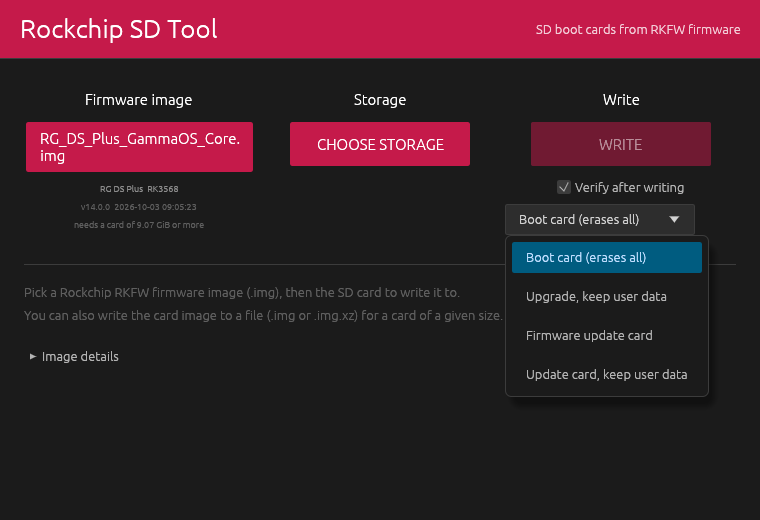
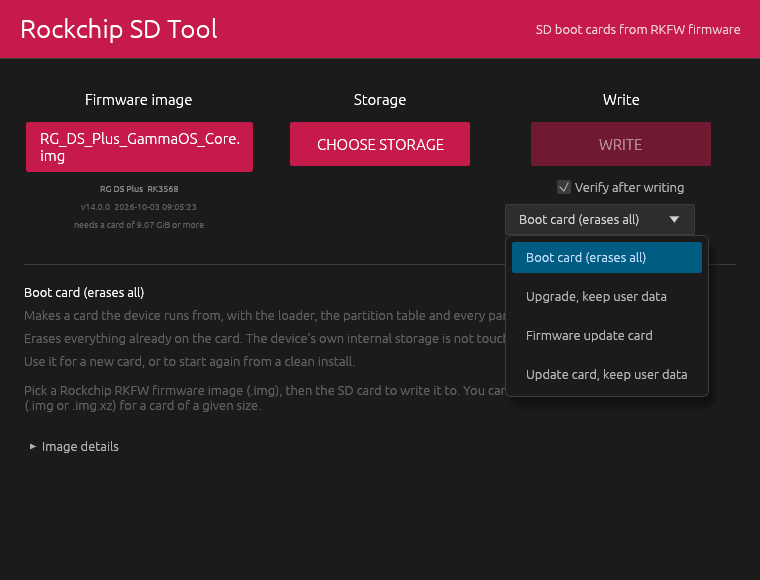
Explain every write mode in the window, and answer the antivirus warnings
The description of a mode was only a tooltip in the list, so the difference
between the four options was easy to miss. Each one now writes out what it
does, what it keeps and when to pick it, under the buttons where it is always
visible. The README gained a section with a screenshot of each option and a
table for choosing between them.

Some users report Windows treating the download as a threat. Three ordinary
properties of this program look like a malicious one to a scanner: it asks for
administrator rights, it writes to raw disks, and it is unsigned, so every
release is a file Windows has never seen. Signing needs a paid certificate and
an identity check, but the rest can be improved now:

- the Windows binary carries a full version resource and an icon instead of
  almost no metadata, which is part of what heuristics score;
- each release is signed with a GitHub build provenance attestation, so a
  download can be traced to this source and build log;
- the SHA-256 of every file is published in the notes and attached;
- the README explains the SmartScreen warning, how an antivirus detection
  differs, how to report one and how to check a download.

diff --git a/src/gui.rs b/src/gui.rs
@@ -37,7 +37,7 @@ pub fn run(preload: Option<PathBuf>) -> Result<()> {
     let options = eframe::NativeOptions {
         viewport: egui::ViewportBuilder::default()
             .with_title("Rockchip SD Tool")
-            .with_inner_size(Vec2::new(760.0, 520.0))
+            .with_inner_size(Vec2::new(760.0, 580.0))
             .with_min_inner_size(Vec2::new(640.0, 440.0))
             .with_icon(icon()),
         ..Default::default()
@@ -57,16 +57,20 @@ pub fn run(preload: Option<PathBuf>) -> Result<()> {
 }
 
 fn icon() -> egui::IconData {
-    // A simple generated icon: a rounded card shape with a notch.
+    // The same SD card shape as assets/icon.ico: a cut corner, four contacts and a label stripe.
     let n = 64usize;
     let mut rgba = vec![0u8; n * n * 4];
     for y in 0..n {
         for x in 0..n {
-            let inside = x >= 14 && x < 50 && y >= 6 && y < 58 && !(x >= 42 && y < 14);
-            let stripe = inside && y >= 40 && y < 46 && x >= 20 && x < 44;
+            let (fx, fy) = (x as i32, y as i32);
+            let inside = fx >= 14 && fx < 50 && fy >= 6 && fy < 58 && !(fx >= 42 && fy < 14 && fx - 42 > 13 - fy);
+            let stripe = inside && fy >= 40 && fy < 46 && fx >= 20 && fx < 44;
+            let pin = inside && fy >= 12 && fy < 24 && (22..46).contains(&fx) && (fx - 22) % 6 < 3;
             let i = (y * n + x) * 4;
             if stripe {
                 rgba[i..i + 4].copy_from_slice(&[255, 215, 0, 255]);
+            } else if pin {
+                rgba[i..i + 4].copy_from_slice(&[255, 255, 255, 210]);
             } else if inside {
                 rgba[i..i + 4].copy_from_slice(&[ACCENT.r(), ACCENT.g(), ACCENT.b(), 255]);
             }
@@ -425,13 +429,35 @@ fn mode_label(m: Mode) -> &'static str {
     }
 }
 
-fn mode_help(m: Mode) -> &'static str {
+/// What each mode does, what it keeps, and when to pick it. Shown in the window under the
+/// buttons and as the tooltip in the mode list, so the choice does not need the README.
+fn mode_help(m: Mode) -> [&'static str; 3] {
     match m {
-        Mode::Full => "Makes a card the device runs from. Everything on the card is erased.",
-        Mode::Upgrade => "Writes the loader and the firmware partitions onto a card that already has this image's layout, and keeps the partition table, user data and the device's own state. The write stops before it starts if the layout does not match.",
-        Mode::UpdateCard => "Makes a card that flashes the device's own internal storage. The device boots from it into recovery, installs the firmware carried on the card, and afterwards runs from its internal storage. The card needs room for the whole firmware file. As the firmware asks, the device wipes its user data on the boot after installing.",
-        Mode::UpdateCardKeepData => "The same card, with the firmware's own request to wipe removed, so the device keeps its user data across the update. Only safe when the new firmware can use the existing data; the wipe exists for the upgrades where it cannot.",
+        Mode::Full => [
+            "Makes a card the device runs from, with the loader, the partition table and every partition the firmware carries.",
+            "Erases everything already on the card. The device's own internal storage is not touched.",
+            "Use it for a new card, or to start again from a clean install.",
+        ],
+        Mode::Upgrade => [
+            "Re-writes the loader and the firmware partitions on a card that already runs this firmware's layout.",
+            "Keeps the partition table, your saves and settings and everything else on the card.",
+            "Use it to move a card you already play on to a newer release. It stops before writing anything if the card's layout does not match the firmware.",
+        ],
+        Mode::UpdateCard => [
+            "Makes a card that installs the firmware onto the device's own internal storage. The device boots from the card once, goes into recovery, flashes itself and afterwards runs without the card.",
+            "Erases the card, and wipes the device's user data on the boot after installing, because the firmware asks for that.",
+            "Use it for devices that run from internal storage, and whenever a release asks for a clean install. The card has to be big enough for the whole firmware file.",
+        ],
+        Mode::UpdateCardKeepData => [
+            "The same installing card, except that the firmware's own request to wipe is removed from the copy carried on the card. Every partition is still installed.",
+            "Erases the card, and keeps the user data on the device.",
+            "Use it only when the new firmware can read the data the device already has. If the release notes ask for a clean install, use the plain update card instead.",
+        ],
     }
+}
+
+fn mode_tooltip(m: Mode) -> String {
+    mode_help(m).join("\n\n")
 }
 
 fn fmt_dur(d: Duration) -> String {
@@ -561,7 +587,7 @@ impl eframe::App for App {
                             .selected_text(mode_label(self.mode))
                             .show_ui(ui, |ui| {
                                 for m in [Mode::Full, Mode::Upgrade, Mode::UpdateCard, Mode::UpdateCardKeepData] {
-                                    ui.selectable_value(&mut self.mode, m, mode_label(m)).on_hover_text(mode_help(m));
+                                    ui.selectable_value(&mut self.mode, m, mode_label(m)).on_hover_text(mode_tooltip(m));
                                 }
                             });
                     });
@@ -595,8 +621,13 @@ impl eframe::App for App {
                 let color = if *ok { OK_GREEN } else { ACCENT };
                 ui.label(RichText::new(msg).color(color).strong());
             } else {
-                ui.label(RichText::new("Pick a Rockchip RKFW firmware image (.img), then the SD card to write it to.").weak());
-                ui.label(RichText::new("You can also write the card image to a file (.img or .img.xz) for a card of a given size.").weak());
+                let [what, keeps, when] = mode_help(self.mode);
+                ui.label(RichText::new(mode_label(self.mode)).strong());
+                ui.label(RichText::new(what).weak());
+                ui.label(RichText::new(keeps).weak());
+                ui.label(RichText::new(when).weak());
+                ui.add_space(6.0);
+                ui.label(RichText::new("Pick a Rockchip RKFW firmware image (.img), then the SD card to write it to. You can also write the card image to a file (.img or .img.xz) for a card of a given size.").weak());
             }
 
             if let Some(i) = &self.image {

diff --git a/build.rs b/build.rs
@@ -26,8 +26,18 @@ fn main() {
   </application>
 </assembly>"#,
         );
+        // A complete version resource. Antivirus heuristics score a binary with no company,
+        // no copyright and no description as more suspicious than one that identifies itself.
+        let version = std::env::var("CARGO_PKG_VERSION").unwrap_or_default();
         res.set("ProductName", "Rockchip SD Tool");
-        res.set("FileDescription", "Rockchip SD Tool");
+        res.set("FileDescription", "Rockchip SD Tool: writes Rockchip RKFW firmware images to SD cards");
+        res.set("CompanyName", "TheGammaSqueeze");
+        res.set("LegalCopyright", "Copyright (c) TheGammaSqueeze. MIT License.");
+        res.set("OriginalFilename", "rockchip_sd_tool.exe");
+        res.set("InternalName", "rockchip_sd_tool");
+        res.set("Comments", "Source: https://github.com/TheGammaSqueeze/rockchip_sd_tool");
+        res.set("ProductVersion", &version);
+        res.set("FileVersion", &version);
         if std::path::Path::new("assets/icon.ico").exists() {
             res.set_icon("assets/icon.ico");
         }

diff --git a/README.md b/README.md
@@ -34,11 +34,65 @@ What it does:
 
 | | |
 | --- | --- |
-| **Three modes.** A boot card the device runs from, an upgrade that keeps user data, or a card that flashes the device's internal storage. <br> ![The write modes](assets/screenshots/02-modes.png) | **Choose the card.** Only removable disks are listed; the system disk is never selectable. <br> ![Choosing the card](assets/screenshots/03-choose-card.png) |
+| **Four modes.** A boot card the device runs from, an upgrade that keeps user data, a card that flashes the device's internal storage, and the same card without the wipe. <br> ![The write modes](assets/screenshots/02-modes.png) | **Choose the card.** Only removable disks are listed; the system disk is never selectable. <br> ![Choosing the card](assets/screenshots/03-choose-card.png) |
 | **Or write to a file.** Pick the size of the card the image is meant for and write a `.img` or `.img.xz`. <br> ![Writing to an image file](assets/screenshots/04-image-file.png) | **Confirm.** A full write says plainly that the card will be erased. <br> ![Confirming a full write](assets/screenshots/05-confirm.png) |
 | **Writing.** Progress per partition, with the speed and the number of blocks that had to be rewritten. <br> ![Writing in progress](assets/screenshots/06-writing.png) | **Done.** The card is verified before it is released. <br> ![Write finished](assets/screenshots/07-done.png) |
 | **Upgrade instead.** The same button re-flashes the firmware partitions and keeps everything else. <br> ![Confirming an upgrade](assets/screenshots/08-upgrade-confirm.png) | **Upgrade done.** The partition table and user data are still there. <br> ![Upgrade finished](assets/screenshots/09-upgrade-done.png) |
 | **Firmware update card.** It carries the firmware as a file for the device to install. <br> ![Confirming an update card](assets/screenshots/10-update-card-confirm.png) | **Update card done.** Boot the device from it once and it flashes itself. <br> ![Update card finished](assets/screenshots/11-update-card-done.png) |
+| **Keeping the data on an update card.** The confirmation says exactly what the mode changes. <br> ![Confirming a keep-data update card](assets/screenshots/16-update-card-keep-data-confirm.png) | **Guidance in the window.** Whichever option is picked, what it does, what it keeps and when to use it are written under the buttons. <br> ![The guidance shown for a mode](assets/screenshots/13-mode-upgrade.png) |
+
+## Which option should I choose?
+
+The window always shows what the selected option does, what it keeps and when to use it, so the
+choice can be made without this page. The short version:
+
+| Your situation | Option |
+| --- | --- |
+| A new card, or a card you want to start over with | Boot card |
+| A card you already play on, moving to a newer release | Upgrade, keep user data |
+| The device runs from its own internal storage, and you want a clean install | Firmware update card |
+| The device runs from its own internal storage, and you want to keep your saves | Update card, keep user data |
+
+### Boot card (erases all)
+
+![Boot card](assets/screenshots/12-mode-boot-card.png)
+
+Makes a card the device runs from, with the loader, the partition table and every partition the
+firmware carries. Everything already on the card is erased. The device's own internal storage is
+not touched. This is the mode SDDiskTool calls **SD Boot**, and it is what you want for a new
+card.
+
+### Upgrade, keep user data
+
+![Upgrade](assets/screenshots/13-mode-upgrade.png)
+
+Re-writes the loader and the firmware partitions onto a card that already runs this firmware's
+layout, and leaves the partition table alone. Your saves, settings and everything else on the card
+survive. It compares the card's own partition table against the firmware first and stops before
+writing anything if they do not match, so a card from a different release is refused rather than
+half written.
+
+### Firmware update card
+
+![Firmware update card](assets/screenshots/14-mode-update-card.png)
+
+Makes a card that installs the firmware onto the device's internal storage. The device boots from
+the card once, goes into recovery, flashes itself and from then on runs without the card. This is
+SDDiskTool's **Upgrade Firmware** mode. The card has to be big enough to hold the whole firmware
+file, which `info` reports. The device wipes its user data on the boot after installing, because
+that is what the firmware itself asks for.
+
+### Update card, keep user data
+
+![Update card, keep user data](assets/screenshots/15-mode-update-card-keep-data.png)
+
+The same installing card, with one difference: the firmware's own request to wipe is removed from
+the copy carried on the card. Every partition is still installed, the system and the bootloader
+included. Only the instruction left behind for the next boot changes, so the device comes back up
+with its data.
+
+Use it only when the new firmware can read the data the device already has. If the release notes
+ask for a clean install, use the plain update card and let it wipe.
 
 ## Download and build
 
@@ -64,6 +118,47 @@ com.apple.quarantine "Rockchip SD Tool.app"`).
 Linux build dependencies (Debian/Ubuntu): `sudo apt install build-essential libxkbcommon-dev libwayland-dev libgl1-mesa-dev`.
 Windows: Visual Studio Build Tools (C++), which rustup installs on request.
 macOS: Xcode command line tools (`xcode-select --install`).
+
+## Windows SmartScreen and antivirus warnings
+
+Windows may warn about the download, and some antivirus products flag it. The tool is clean; this
+is what causes it and how to check for yourself.
+
+Three ordinary properties of this program look, to a scanner that only sees the file, exactly like
+the properties of something malicious. It asks for administrator rights at launch, it opens raw
+disks and writes to them directly, and it is not signed with a code signing certificate, because
+those cost a few hundred a year and require a company identity check. Every release is also a
+file Windows has never seen before, so it has no reputation to go on.
+
+**Two different warnings, two different meanings.**
+
+* **"Windows protected your PC", with a Run anyway button under More info.** This is SmartScreen
+  reporting that the file is new and unsigned. It is not a detection. Choose More info, then Run
+  anyway.
+* **A named threat, for example `Trojan:Win32/Wacatac.B!ml`.** This is a machine-learning false
+  positive in the antivirus itself. The `!ml` suffix says so. Please report it to your antivirus
+  vendor (Microsoft take reports at https://www.microsoft.com/en-us/wdsi/filesubmission), and open
+  an issue here so the sample can be submitted from this side too. They are usually corrected
+  within a day or two.
+
+**How to check the download yourself.** Every release lists the SHA-256 of each file in its notes
+and attaches `SHA256SUMS.txt`. On Windows:
+
+```
+certutil -hashfile rockchip_sd_tool-windows-x86_64-<version>.zip SHA256
+```
+
+Each release is also built by the GitHub Actions workflow in this repository, never on anyone's
+machine, and the workflow signs a build provenance attestation for the files it produces. With the
+GitHub CLI you can confirm that the exact file you downloaded came from this source:
+
+```
+gh attestation verify rockchip_sd_tool-windows-x86_64-<version>.zip --repo TheGammaSqueeze/rockchip_sd_tool
+```
+
+That is a stronger guarantee than a code signing certificate gives, since it ties the binary to the
+public source and the public build log rather than to a paid-for identity. And because the whole
+source is here, you can always build it yourself with `cargo build --release` and compare.
 
 ## Usage
 

diff --git a/.github/release_instructions.md b/.github/release_instructions.md
@@ -11,11 +11,15 @@
 ### How to use
 
 1. Unzip the download for your platform.
-2. **Windows**: run `rockchip_sd_tool.exe`; accept the administrator prompt (raw disk access needs it). SmartScreen may warn once because the build is unsigned; choose More info, Run anyway.
+2. **Windows**: run `rockchip_sd_tool.exe`; accept the administrator prompt (raw disk access needs it). SmartScreen may warn once because the build is unsigned; choose More info, Run anyway. If an antivirus reports a named threat instead, it is a false positive on a new unsigned program that writes to raw disks; the checksums below and `gh attestation verify <file> --repo TheGammaSqueeze/rockchip_sd_tool` let you confirm the file came from this repository's build.
    **macOS**: open `Rockchip_SD_Tool.app.zip`, then right-click `Rockchip SD Tool.app` and choose Open (the build is not notarized, so the first launch needs this). The bare `rockchip_sd_tool` file next to it is the command line version.
    **Linux**: `chmod +x rockchip_sd_tool` and run it from a desktop session; it asks for your password through the system dialog when it writes to a card.
 3. Choose the firmware image (the RKFW `.img` you downloaded), choose the SD card, press Write. Every block is read back as it is written and the card is verified at the end.
-4. The write mode list offers three choices: a **boot card** the device runs from, an **upgrade** that re-flashes a card you already use and keeps everything on it, and a **firmware update card** that the device boots once to flash its own internal storage. Every partition the image carries is replaced, the partition table and your data stay as they are, and a card whose layout does not match the image is refused before anything is written.
+4. The write mode list offers four choices, and the window explains each one as you select it:
+   * **Boot card (erases all)**: a card the device runs from. Use it for a new card or a clean start.
+   * **Upgrade, keep user data**: re-flashes a card you already play on and keeps the partition table, saves and settings. A card whose layout does not match the image is refused before anything is written.
+   * **Firmware update card**: the device boots from it once and flashes its own internal storage. It wipes the device's user data afterwards, as the firmware asks.
+   * **Update card, keep user data**: the same, with the firmware's request to wipe removed, so the device keeps its saves. Only use it when the new firmware can read the data already on the device.
 
 ### Command line
 
@@ -26,6 +30,7 @@ rockchip_sd_tool write <firmware.img> --to <device>            (Linux: sudo, mac
 rockchip_sd_tool write <firmware.img> --to card.img.xz --size 128GB
 rockchip_sd_tool write <firmware.img> --to <device> --upgrade     (keep the table and user data)
 rockchip_sd_tool write <firmware.img> --to <device> --update-card (a card that flashes the device)
+rockchip_sd_tool write <firmware.img> --to <device> --update-card --keep-data
 rockchip_sd_tool verify <firmware.img> --from <device or image>
 ```
 

diff --git a/CHANGELOG.md b/CHANGELOG.md
@@ -1,5 +1,19 @@
 # Changelog
 
+## 1.3.1
+
+- Each write mode now explains itself in the window: what it does, what it keeps and when to pick
+  it, written under the buttons rather than hidden in a tooltip. The README has a section with a
+  screenshot of each option and a table for choosing between them.
+- Steps against the false positives some antivirus products report. The Windows binary now carries
+  a complete version resource (company, copyright, description, version) and an icon instead of
+  almost no metadata. Every release is signed with a GitHub build provenance attestation, so a
+  download can be traced to this repository's source and build log with
+  `gh attestation verify <file> --repo TheGammaSqueeze/rockchip_sd_tool`, and the SHA-256 of every
+  file is published in the release notes and attached as `SHA256SUMS.txt`. The README explains the
+  difference between the SmartScreen warning and an antivirus detection, and how to check a
+  download.
+
 ## 1.3.0
 
 - New **update card, keep user data** mode (`--update-card --keep-data`, or the fourth entry in
